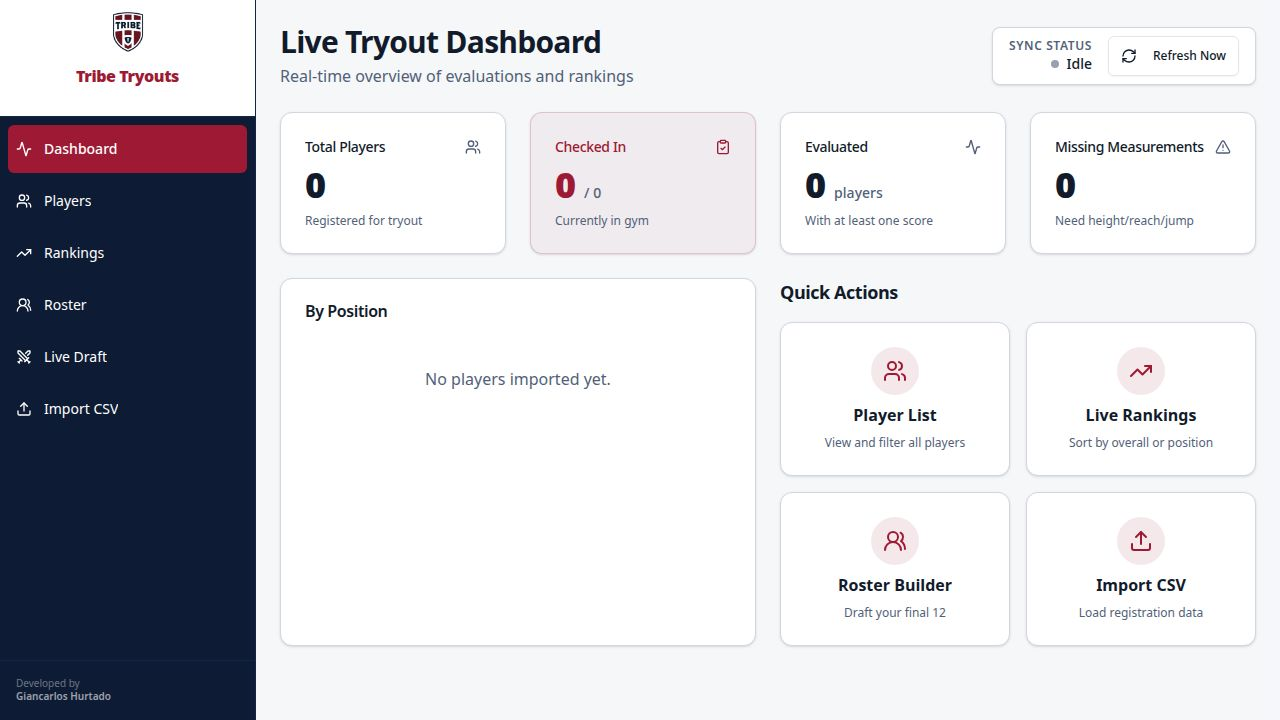
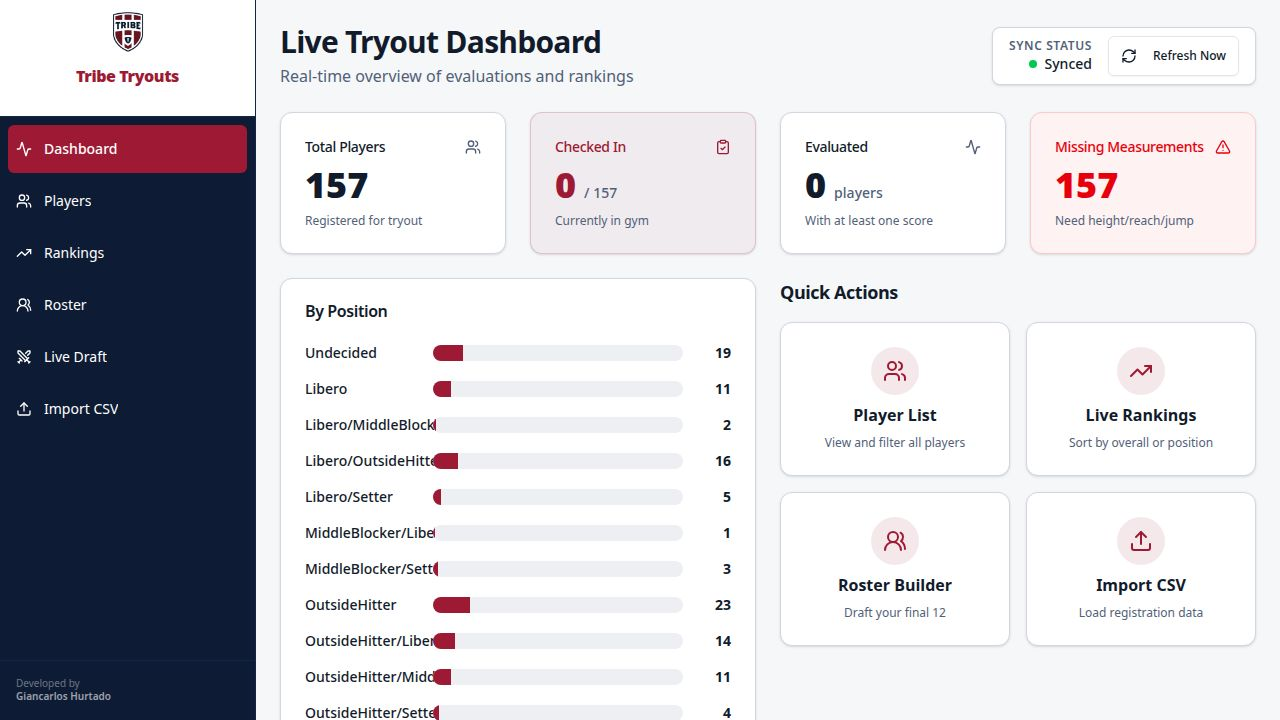
Saved progress at the end of the loop
Replit-Commit-Author: Agent
Replit-Commit-Session-Id: 836f06a0-99fe-480f-acf2-97433266a65a
Replit-Commit-Checkpoint-Type: full_checkpoint
Replit-Commit-Event-Id: b09db5e6-13db-41cf-a3ce-7222056e8d4a
Replit-Commit-Screenshot-Url: https://storage.googleapis.com/screenshot-production-us-central1/d28e04b0-d7a4-47c3-9f77-4a85112b7172/836f06a0-99fe-480f-acf2-97433266a65a/YQBUUCJ
Replit-Helium-Checkpoint-Created: true

diff --git a/artifacts/tryout-app-ios/src/pages/players.tsx b/artifacts/tryout-app-ios/src/pages/players.tsx
@@ -146,6 +146,7 @@ export default function Players() {
               <TableHead className="w-20 font-bold uppercase tracking-wider text-xs">#</TableHead>
               <TableHead className="font-bold uppercase tracking-wider text-xs">Name</TableHead>
               <TableHead className="w-36 font-bold uppercase tracking-wider text-xs">Position</TableHead>
+              <TableHead className="w-20 font-bold uppercase tracking-wider text-xs text-center">Age</TableHead>
               <TableHead className="w-32 font-bold uppercase tracking-wider text-xs text-center">Status</TableHead>
               <TableHead className="w-48 font-bold uppercase tracking-wider text-xs text-center">Measurements</TableHead>
               <TableHead className="w-40 font-bold uppercase tracking-wider text-xs text-center">Roster</TableHead>
@@ -155,7 +156,7 @@ export default function Players() {
           <TableBody>
             {isLoading ? (
               <TableRow>
-                <TableCell colSpan={8} className="text-center py-12 text-muted-foreground">
+                <TableCell colSpan={9} className="text-center py-12 text-muted-foreground">
                   <div className="animate-pulse flex flex-col items-center justify-center">
                     <div className="h-8 w-8 rounded-full bg-muted mb-4" />
                     Loading players...
@@ -164,7 +165,7 @@ export default function Players() {
               </TableRow>
             ) : filteredPlayers.length === 0 ? (
               <TableRow>
-                <TableCell colSpan={8} className="text-center py-12 text-muted-foreground">
+                <TableCell colSpan={9} className="text-center py-12 text-muted-foreground">
                   No players found matching your criteria.
                 </TableCell>
               </TableRow>
@@ -216,6 +217,9 @@ export default function Players() {
                       >
                         {player.position}
                       </Badge>
+                    </TableCell>
+                    <TableCell className="text-center text-sm font-medium tabular-nums text-muted-foreground">
+                      {player.age ?? <span className="text-muted-foreground/30">—</span>}
                     </TableCell>
                     <TableCell className="text-center">
                       {player.checkedIn ? (

diff --git a/artifacts/tryout-app/src/pages/players.tsx b/artifacts/tryout-app/src/pages/players.tsx
@@ -146,6 +146,7 @@ export default function Players() {
               <TableHead className="w-20 font-bold uppercase tracking-wider text-xs">#</TableHead>
               <TableHead className="font-bold uppercase tracking-wider text-xs">Name</TableHead>
               <TableHead className="w-36 font-bold uppercase tracking-wider text-xs">Position</TableHead>
+              <TableHead className="w-20 font-bold uppercase tracking-wider text-xs text-center">Age</TableHead>
               <TableHead className="w-32 font-bold uppercase tracking-wider text-xs text-center">Status</TableHead>
               <TableHead className="w-48 font-bold uppercase tracking-wider text-xs text-center">Measurements</TableHead>
               <TableHead className="w-40 font-bold uppercase tracking-wider text-xs text-center">Roster</TableHead>
@@ -155,7 +156,7 @@ export default function Players() {
           <TableBody>
             {isLoading ? (
               <TableRow>
-                <TableCell colSpan={8} className="text-center py-12 text-muted-foreground">
+                <TableCell colSpan={9} className="text-center py-12 text-muted-foreground">
                   <div className="animate-pulse flex flex-col items-center justify-center">
                     <div className="h-8 w-8 rounded-full bg-muted mb-4" />
                     Loading players...
@@ -164,7 +165,7 @@ export default function Players() {
               </TableRow>
             ) : filteredPlayers.length === 0 ? (
               <TableRow>
-                <TableCell colSpan={8} className="text-center py-12 text-muted-foreground">
+                <TableCell colSpan={9} className="text-center py-12 text-muted-foreground">
                   No players found matching your criteria.
                 </TableCell>
               </TableRow>
@@ -216,6 +217,9 @@ export default function Players() {
                       >
                         {player.position}
                       </Badge>
+                    </TableCell>
+                    <TableCell className="text-center text-sm font-medium tabular-nums text-muted-foreground">
+                      {player.age ?? <span className="text-muted-foreground/30">—</span>}
                     </TableCell>
                     <TableCell className="text-center">
                       {player.checkedIn ? (

diff --git a/artifacts/tryout-app-ios/src/pages/player-profile.tsx b/artifacts/tryout-app-ios/src/pages/player-profile.tsx
@@ -138,6 +138,11 @@ export default function PlayerProfile() {
                 <Badge variant="outline" className="font-semibold">
                   {POSITION_LABELS[player.position] || player.position}
                 </Badge>
+                {player.age && (
+                  <Badge variant="outline" className="text-muted-foreground font-medium">
+                    {player.age}
+                  </Badge>
+                )}
                 {player.checkedIn ? (
                   <Badge variant="outline" className="bg-green-50 text-green-700 border-green-200">
                     <CheckCircle2 className="h-3 w-3 mr-1" /> Checked In

diff --git a/artifacts/tryout-app/src/pages/player-profile.tsx b/artifacts/tryout-app/src/pages/player-profile.tsx
@@ -138,6 +138,11 @@ export default function PlayerProfile() {
                 <Badge variant="outline" className="font-semibold">
                   {POSITION_LABELS[player.position] || player.position}
                 </Badge>
+                {player.age && (
+                  <Badge variant="outline" className="text-muted-foreground font-medium">
+                    {player.age}
+                  </Badge>
+                )}
                 {player.checkedIn ? (
                   <Badge variant="outline" className="bg-green-50 text-green-700 border-green-200">
                     <CheckCircle2 className="h-3 w-3 mr-1" /> Checked In

diff --git a/artifacts/api-server/src/routes/players.ts b/artifacts/api-server/src/routes/players.ts
@@ -150,6 +150,7 @@ router.post("/players/import-csv", async (req, res): Promise<void> => {
       name,
       position: mappedPosition,
       checkedIn: (row["checkedinstatus"] || row["checkedin"] || "").toLowerCase() === "true" || false,
+      age: row["age"] || null,
       heightInches: row["height"] ? parseFloat(row["height"]) || null : null,
       standingReachInches: row["standingreachinches"] || row["reach"] ? parseFloat(row["standingreachinches"] || row["reach"]) || null : null,
       verticalJumpInches: row["verticaljump"] || row["vertical"] ? parseFloat(row["verticaljump"] || row["vertical"]) || null : null,
@@ -168,6 +169,7 @@ router.post("/players/import-csv", async (req, res): Promise<void> => {
             name: playerData.name,
             position: playerData.position,
             checkedIn: playerData.checkedIn,
+            age: playerData.age,
             heightInches: playerData.heightInches,
             standingReachInches: playerData.standingReachInches,
             verticalJumpInches: playerData.verticalJumpInches,

diff --git a/artifacts/api-server/src/routes/sync.ts b/artifacts/api-server/src/routes/sync.ts
@@ -267,6 +267,7 @@ router.post("/sync/sheets", async (req, res): Promise<void> => {
       name,
       position: mappedPosition,
       checkedIn: isCheckedIn,
+      age: row["age"] || null,
       heightInches: row["height"] ? parseFloat(row["height"]) || null : null,
       standingReachInches: row["standingreachinches"] || row["standingreach"] || row["reach"] ? parseFloat(row["standingreachinches"] || row["standingreach"] || row["reach"]) || null : null,
       verticalJumpInches: row["verticaljump"] || row["vertical"] || row["approach"] || row["approachjump"] ? parseFloat(row["verticaljump"] || row["vertical"] || row["approach"] || row["approachjump"]) || null : null,
@@ -282,6 +283,7 @@ router.post("/sync/sheets", async (req, res): Promise<void> => {
           position: playerData.position,
           jerseyNumber: playerData.jerseyNumber,
           checkedIn: playerData.checkedIn,
+          age: playerData.age,
           heightInches: playerData.heightInches,
           standingReachInches: playerData.standingReachInches,
           verticalJumpInches: playerData.verticalJumpInches,

diff --git a/lib/db/src/schema/players.ts b/lib/db/src/schema/players.ts
@@ -7,6 +7,7 @@ export const playersTable = pgTable("players", {
   jerseyNumber: text("jersey_number"),
   name: text("name").notNull(),
   position: text("position"),
+  age: text("age"),
   checkedIn: boolean("checked_in").notNull().default(false),
   heightInches: real("height_inches"),
   standingReachInches: real("standing_reach_inches"),